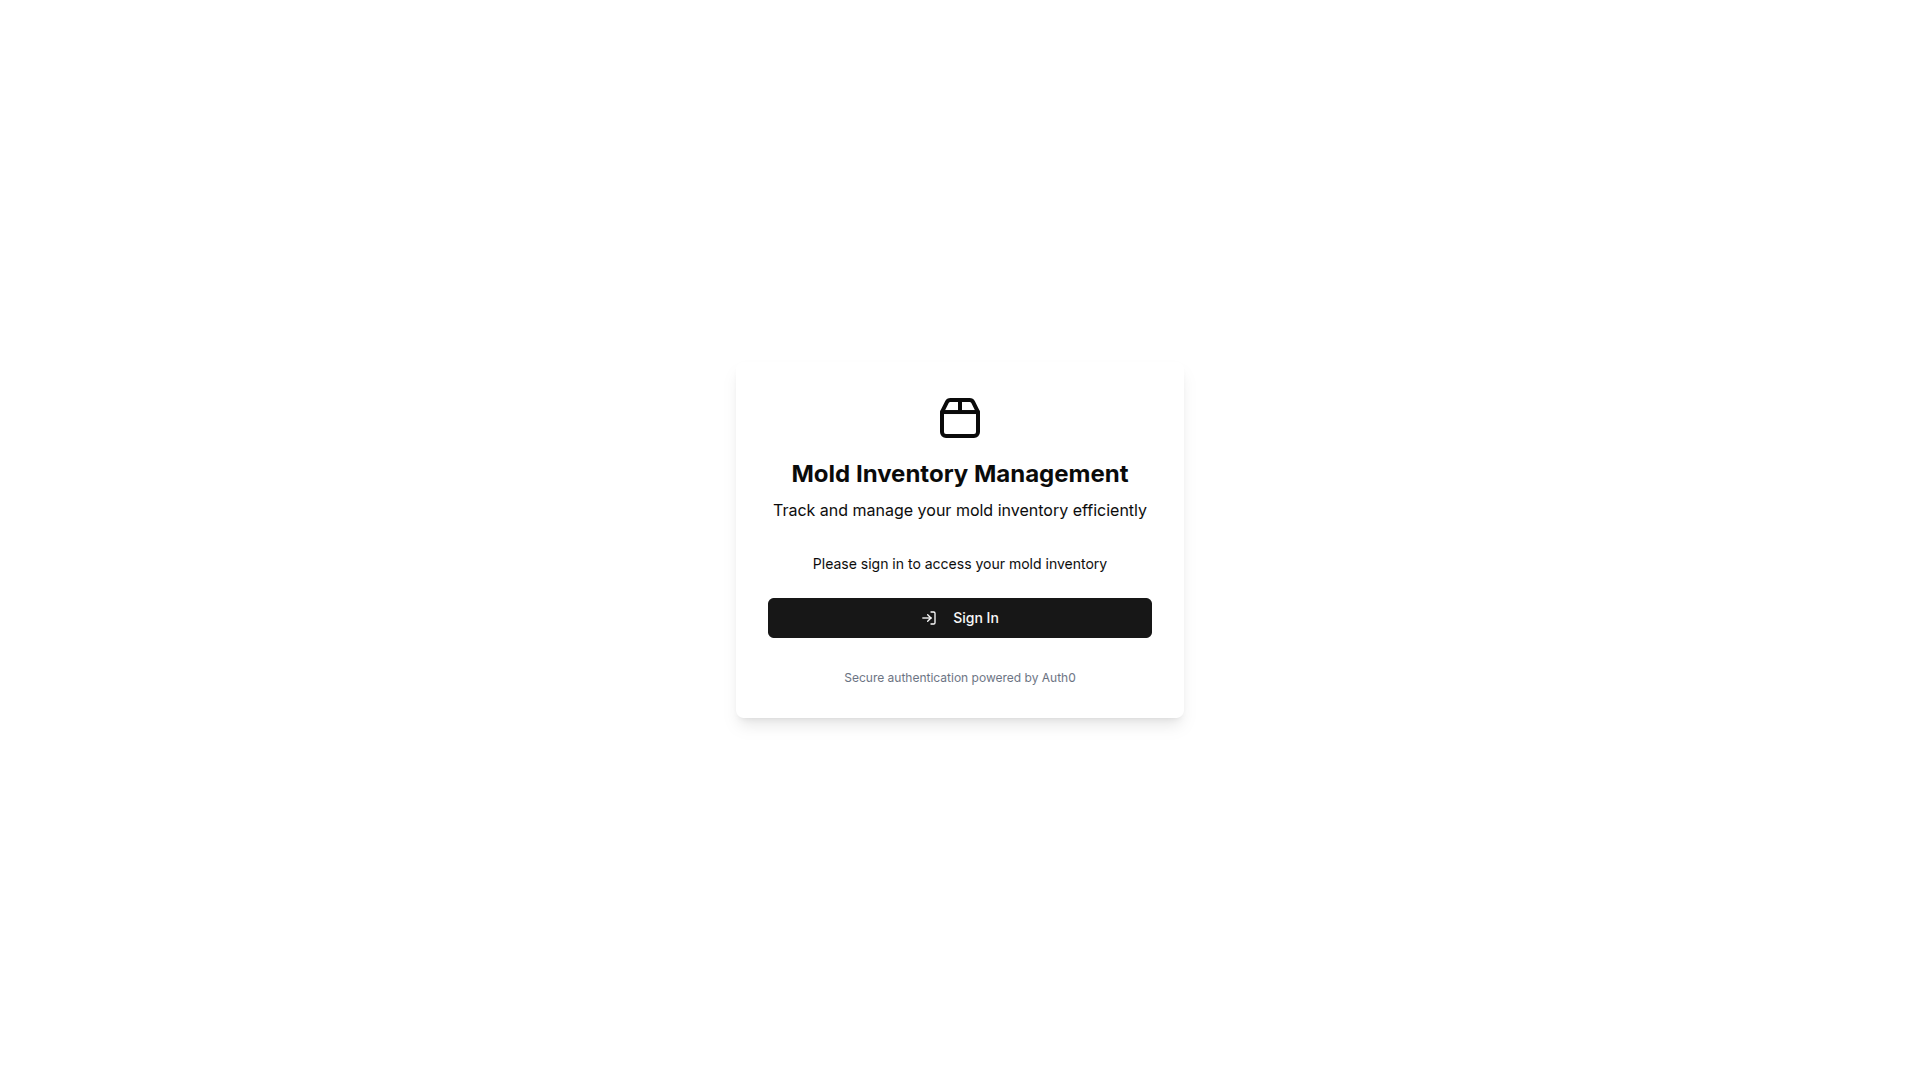
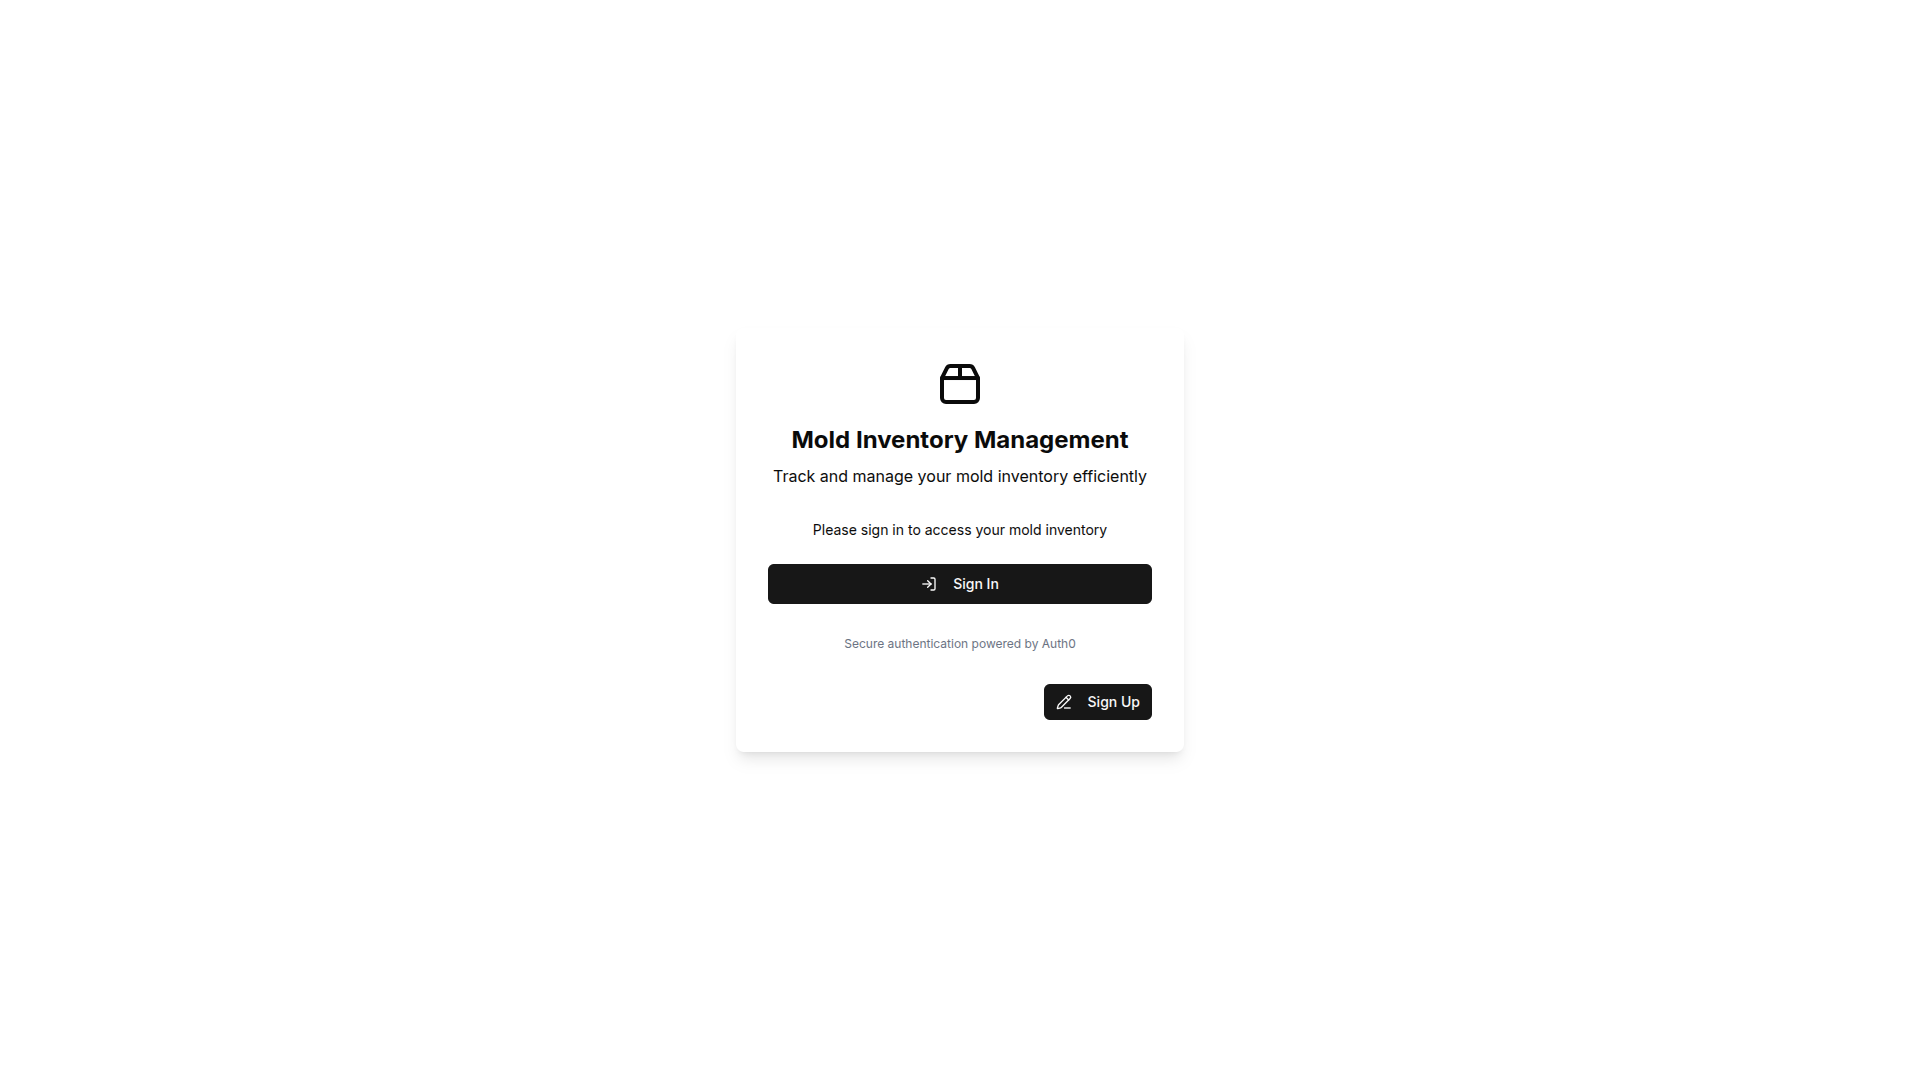
update UI screenshots

Changed region(s): [[0.375, 0.3361, 0.625, 0.6722]]

diff --git a/apps/mold-inventory-app/docs/UI.md b/apps/mold-inventory-app/docs/UI.md
@@ -12,6 +12,10 @@ UI generated with [v0.dev](https://v0.dev/)
 
 ![Screenshot of Dark Auth0 Login Screen](./dark/login-screen-auth0-dark.png)
 
+### Auth0 Sign Up
+
+![Screenshot of Dark Auth0 Signup Screen](./dark/signup-screen-auth0-dark.png)
+
 ### Home
 
 ![Screenshot of Dark Home Screen](./dark/home-screen-dark.png)
